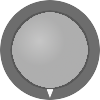
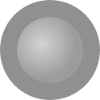
Modified knobdial.

diff --git a/src/qml/KnobDial.qml b/src/qml/KnobDial.qml
@@ -1,6 +1,6 @@
 import Qt 4.7
 
-Item {
+Image {
     id: knob
 
     property real minimumvalue: 0
@@ -15,14 +15,18 @@ Item {
     property real value: 0
 
     width: 300; height: 300
+    source: "images/knobdial.png"
+    smooth: true
+
 
     Image {
         id: knobImage
 
         anchors.fill: parent
-        source: "images/knobdial.png"
+        source: "images/knobdialpointer.png"
         rotation: knob.minimumrotation + knob.value / knob.maximumvalue *
                   -knob.maximumrotation
+        smooth: true
     }
 
     /*

diff --git a/src/qml/DrumMachine/TickGroupSelector.qml b/src/qml/DrumMachine/TickGroupSelector.qml
@@ -56,8 +56,8 @@ Image {
             anchors.fill: parent
             drag.target: knob
             drag.axis: Drag.XAxis
-            drag.minimumX: 0
-            drag.maximumX: parent.width
+            drag.minimumX: 1
+            drag.maximumX: parent.width - 1
             onReleased: {
                 if(knob.x > (toggleSwitch.width / 4)) {
                     toggleSwitch.selectedTickGroup = 1

diff --git a/src/ga_src/GEAudioBuffer.cpp b/src/ga_src/GEAudioBuffer.cpp
@@ -1,5 +1,6 @@
 
 #include <math.h>
+#include <QFile>
 #include <QDebug>
 #include "GEAudioBuffer.h"
 
@@ -213,7 +214,8 @@ CAudioBuffer* CAudioBuffer::loadWav(FILE *wavFile) {
 AUDIO_SAMPLE_TYPE CAudioBuffer::sampleFunction8bitMono(CAudioBuffer *abuffer,
                                                        int pos,
                                                        int /*channel*/) {
-    return (AUDIO_SAMPLE_TYPE)(((unsigned char*)(abuffer->m_data))[pos]-128)<<8;
+    return (AUDIO_SAMPLE_TYPE)(((unsigned char*)(abuffer->m_data))[pos] -
+                               128) << 8;
 }
 
 

diff --git a/src/ga_src/GEAudioBuffer.h b/src/ga_src/GEAudioBuffer.h
@@ -2,7 +2,6 @@
 #ifndef __GE_IGA_AUDIOBUFFER__
 #define __GE_IGA_AUDIOBUFFER__
 
-#include <QFile>
 #include "GEInterfaces.h"
 
 
